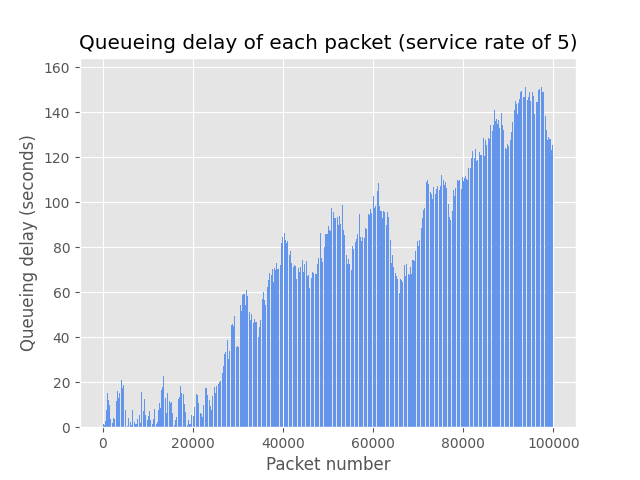
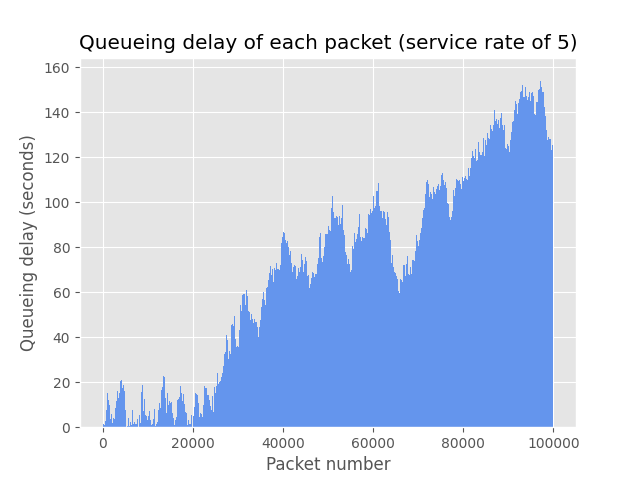
Updated the graph settings

Changed region(s): [[0.25, 0.1875, 0.8438, 0.9062]]

diff --git a/main.py b/main.py
@@ -179,7 +179,7 @@ class Simulation:
         # Create a bar graph for queuing delay of packets.
         plt.clf()
         plt.style.use('ggplot')
-        plt.bar(x_axis, data, color='cornflowerblue')
+        plt.bar(x_axis, data, width=1, color='cornflowerblue')
         # Formatting 
         plt.title(plot_title)
         plt.xlabel('Packet number')
